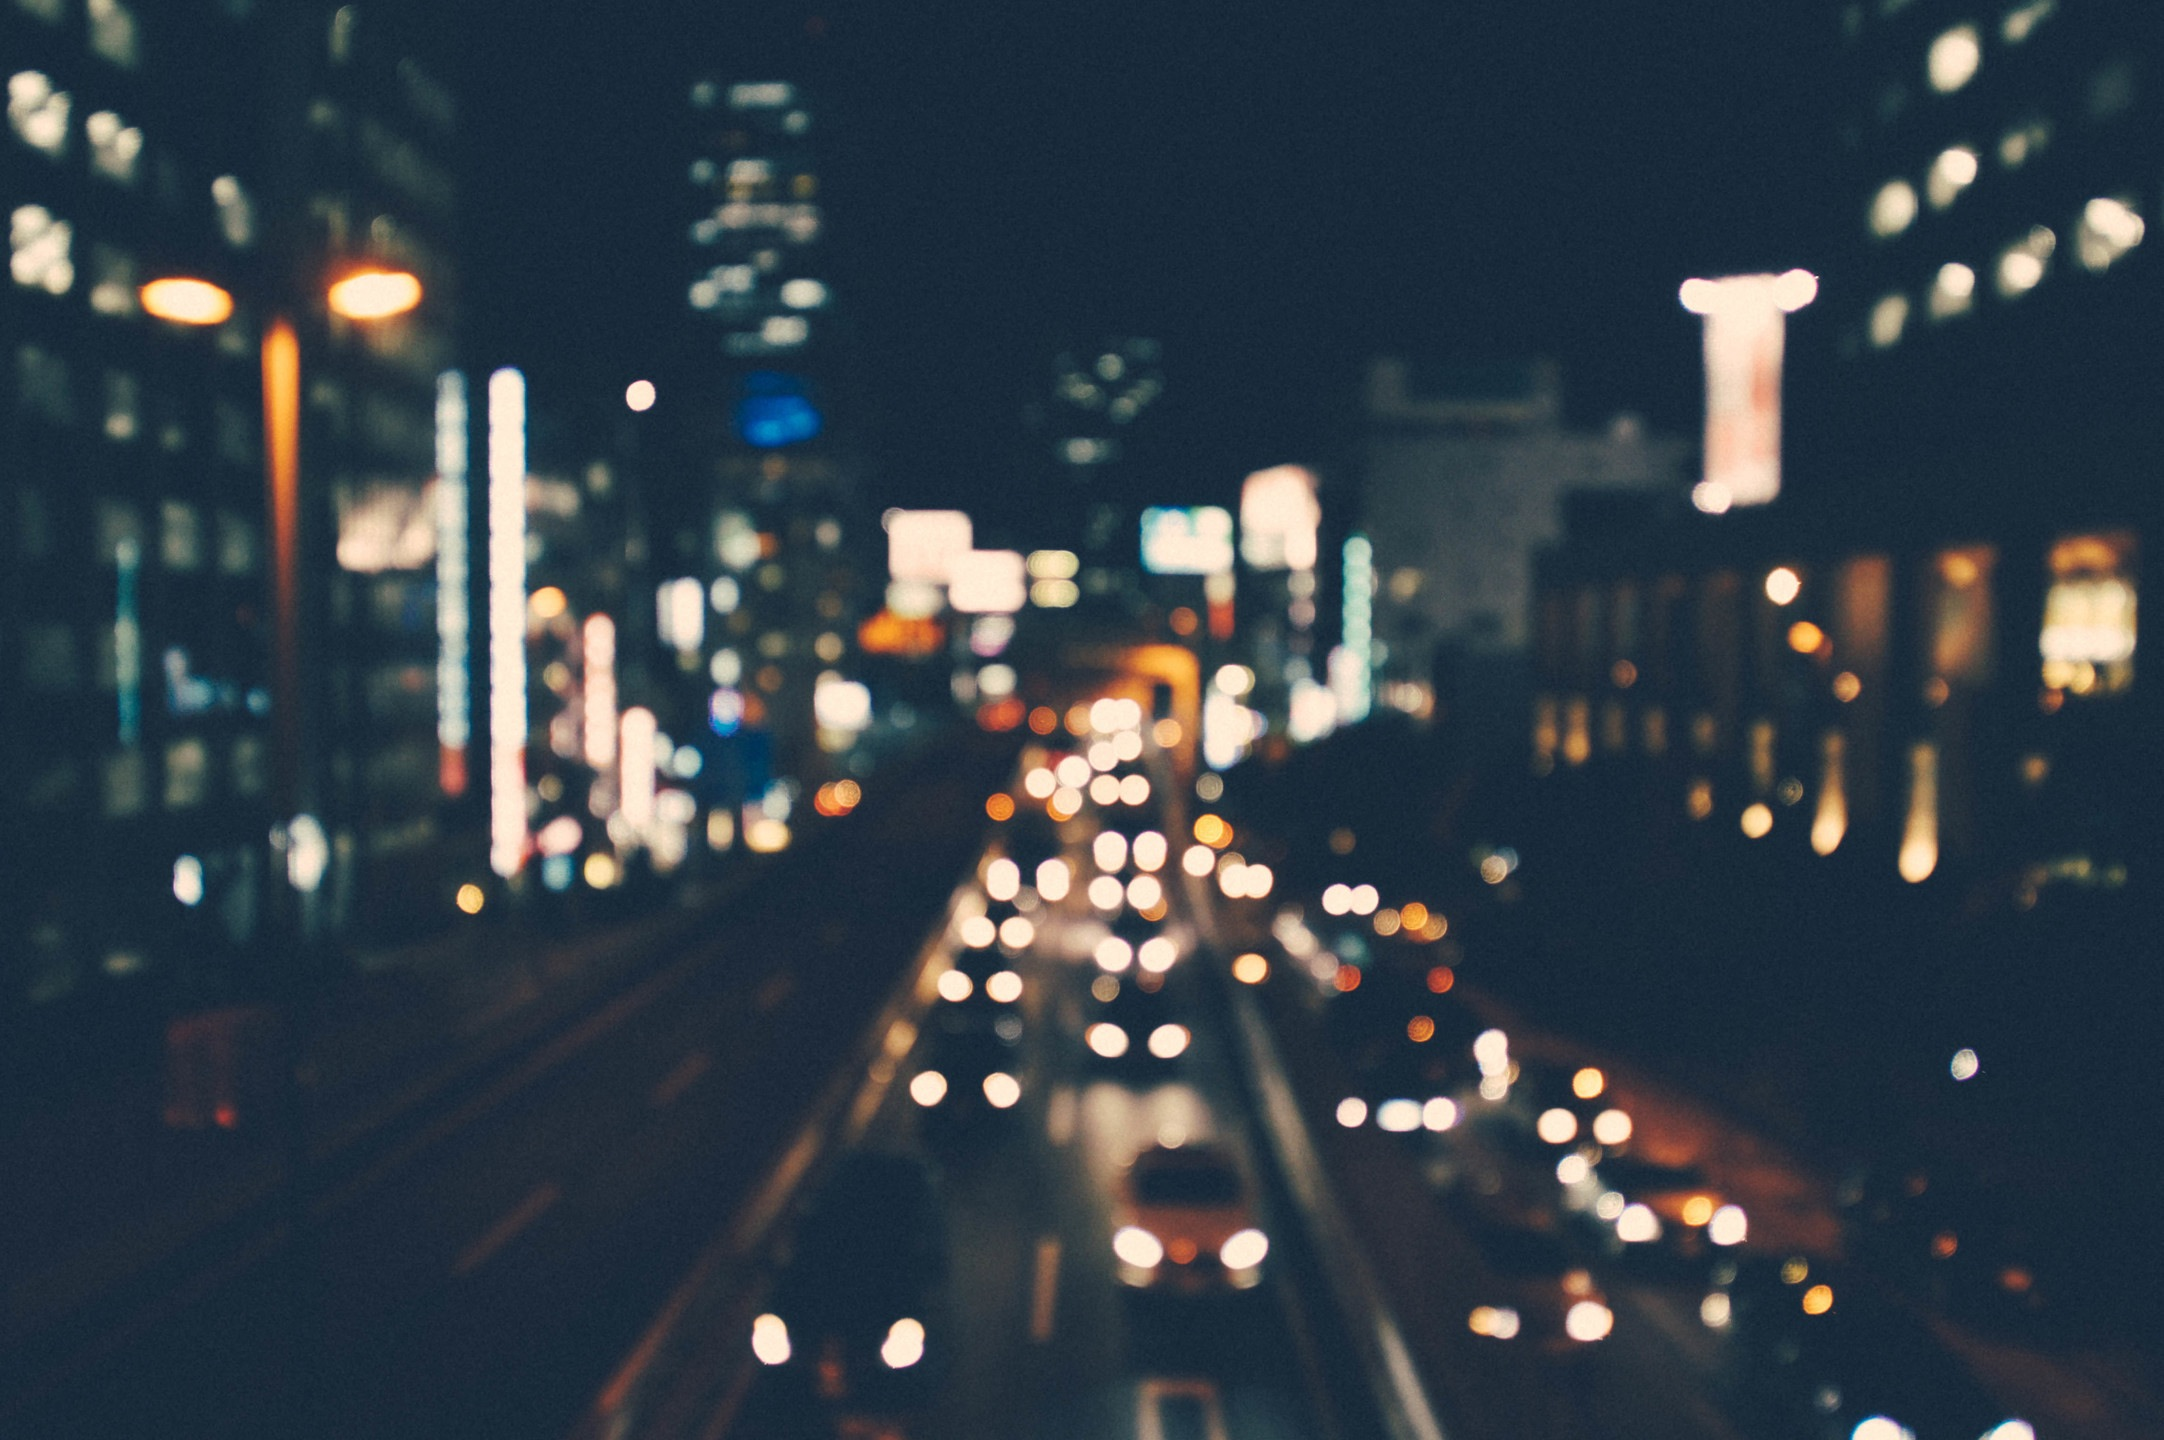
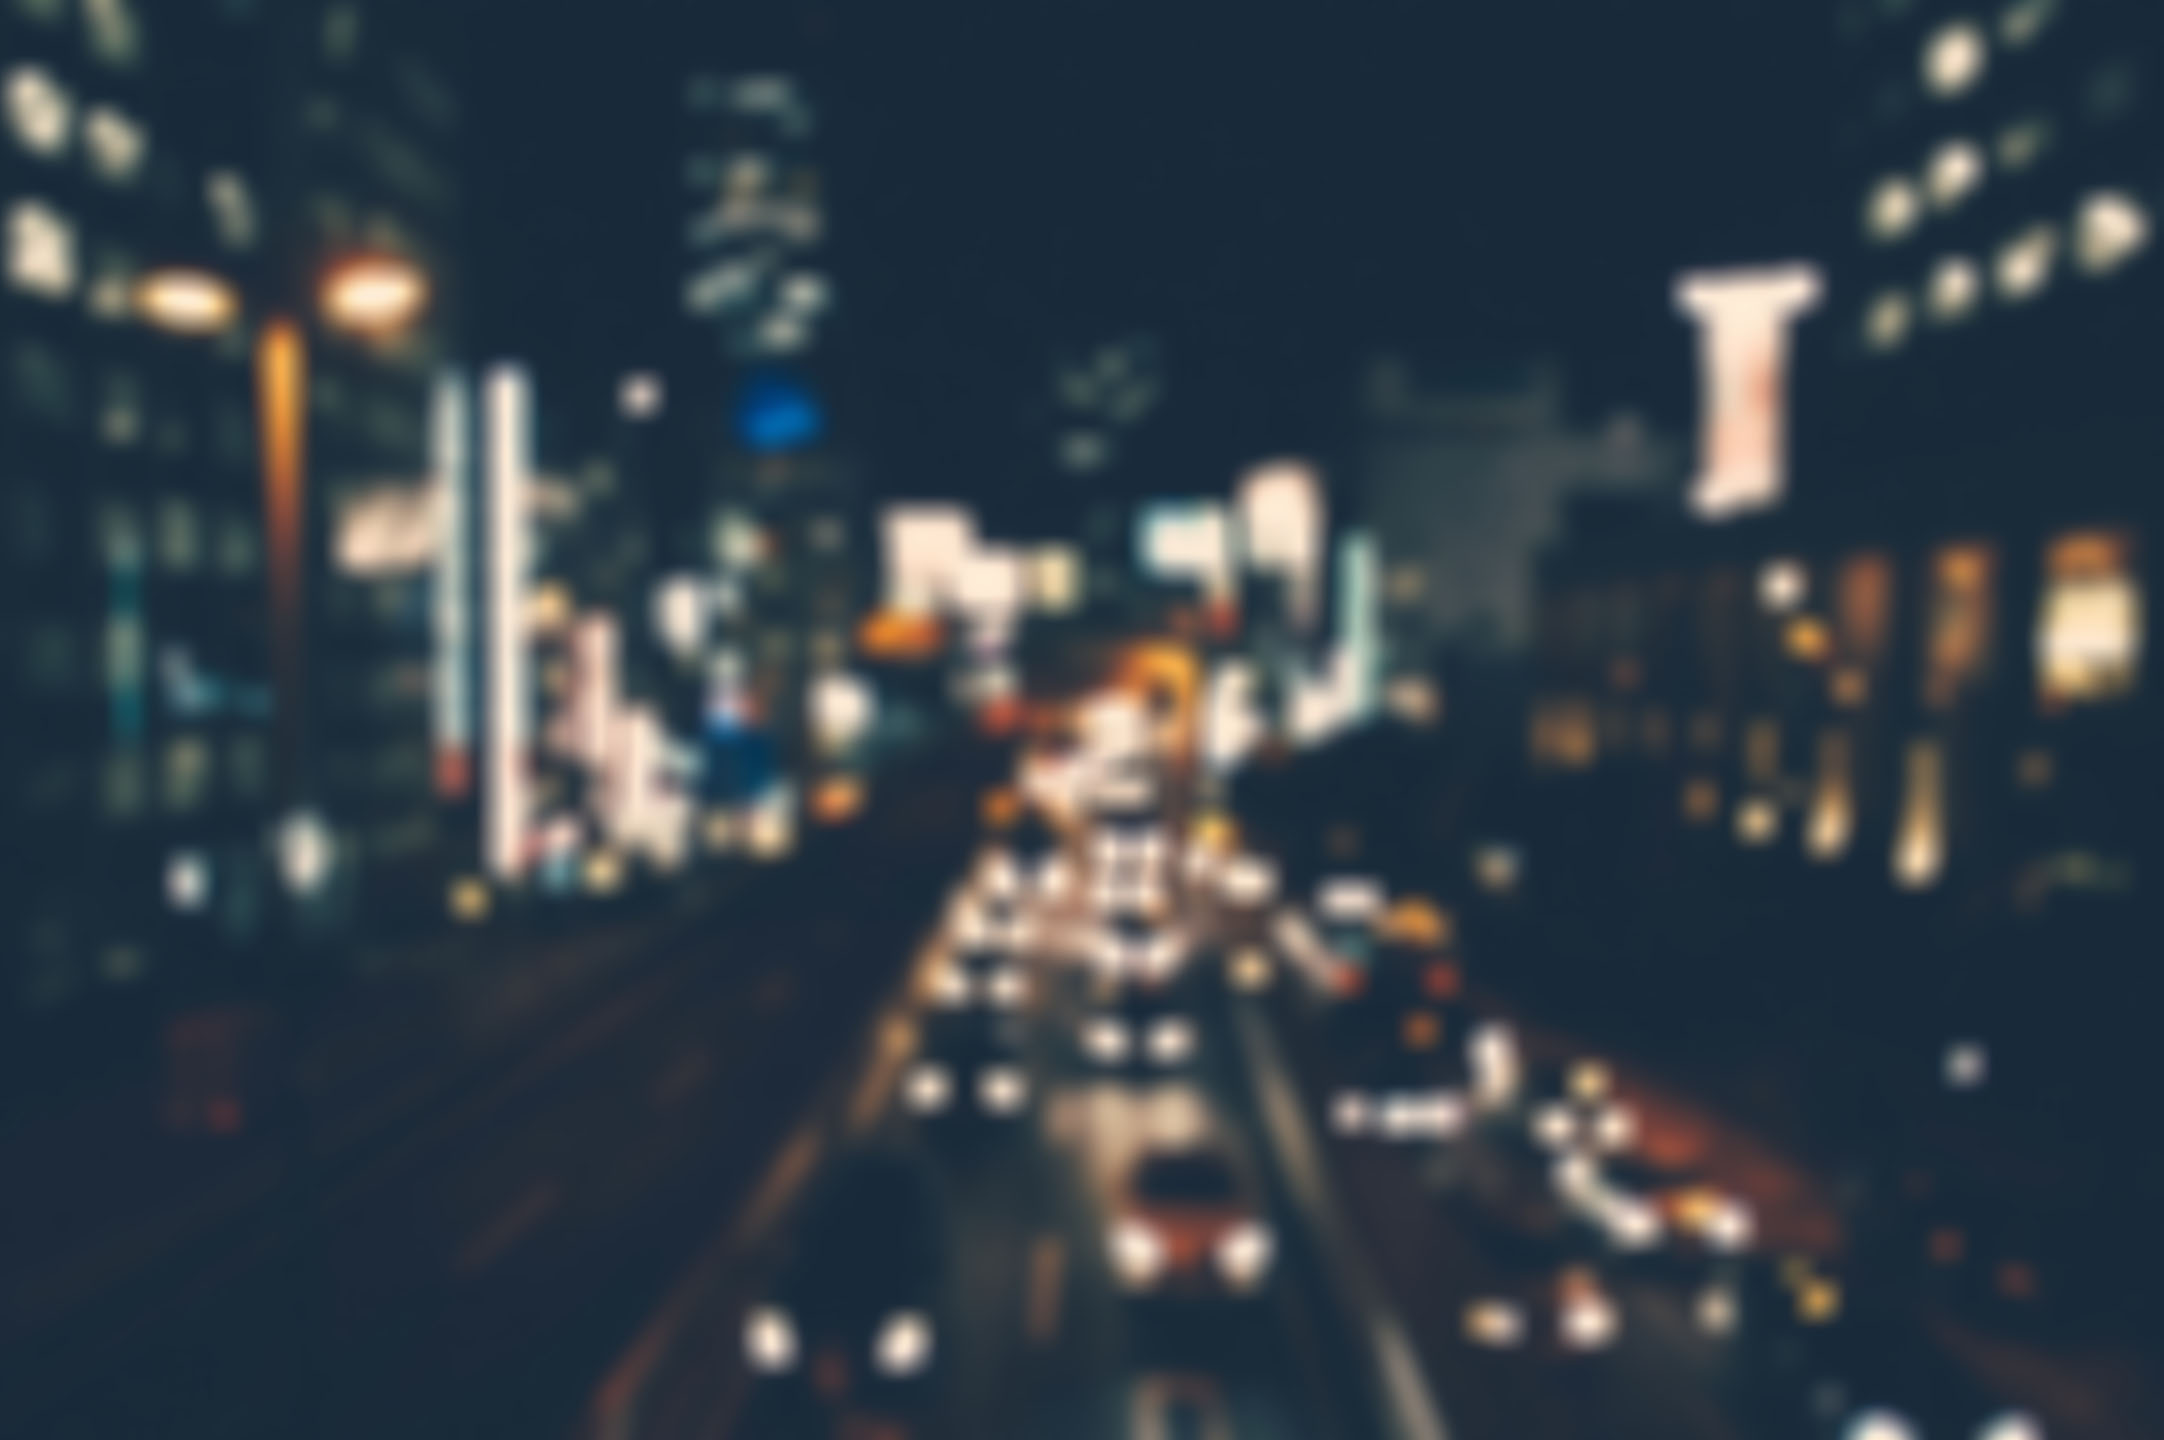
minor changes

diff --git a/index.html b/index.html
@@ -7,7 +7,8 @@
             <link rel="stylesheet" type="text/css" href="css/bootstrap.css"/>
             <link rel="stylesheet" type="text/css" href="css/style.css"/>
             <link rel="stylesheet" type="text/css" href="font-awesome/css/font-awesome.min.css"/>
-<link href='http://fonts.googleapis.com/css?family=Source+Sans+Pro' rel='stylesheet' type='text/css'>
+            <link href='http://fonts.googleapis.com/css?family=Source+Sans+Pro' rel='stylesheet' type='text/css'>
+            <link href='http://fonts.googleapis.com/css?family=Hind' rel='stylesheet' type='text/css'>
         <script type="text/javascript" src="js/jquery-1.11.0.min.js"></script>
         <script src="js/smooth-scroll.js"></script>
         <script>

diff --git a/css/style.css b/css/style.css
@@ -6,10 +6,10 @@ body{
 }
 #intro
     {
-		background: url(../images/bg5.jpg);
+		background: url(../images/bg3.jpg);
 		background-size:  cover;
 		background-attachment:  fixed;
-		background-position:  top;
+		background-position:bottom;
 		background-repeat:  no-repeat;
         overflow-y : hidden;
     }
